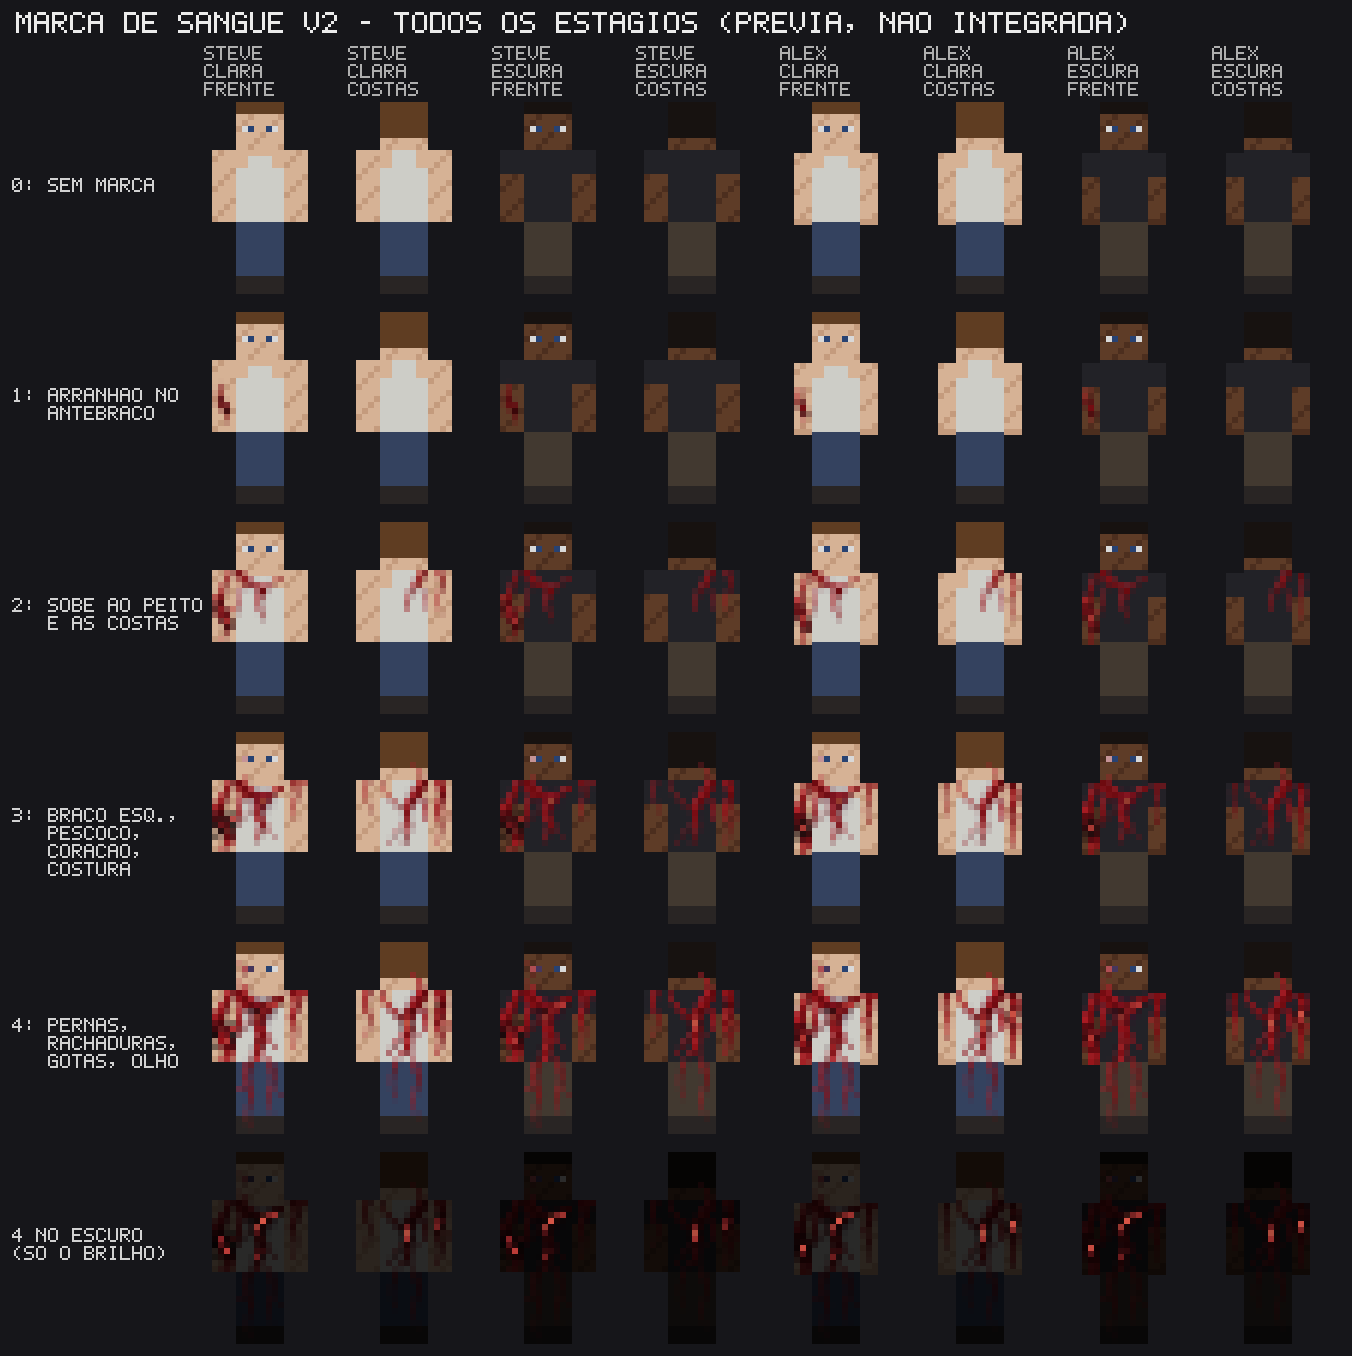
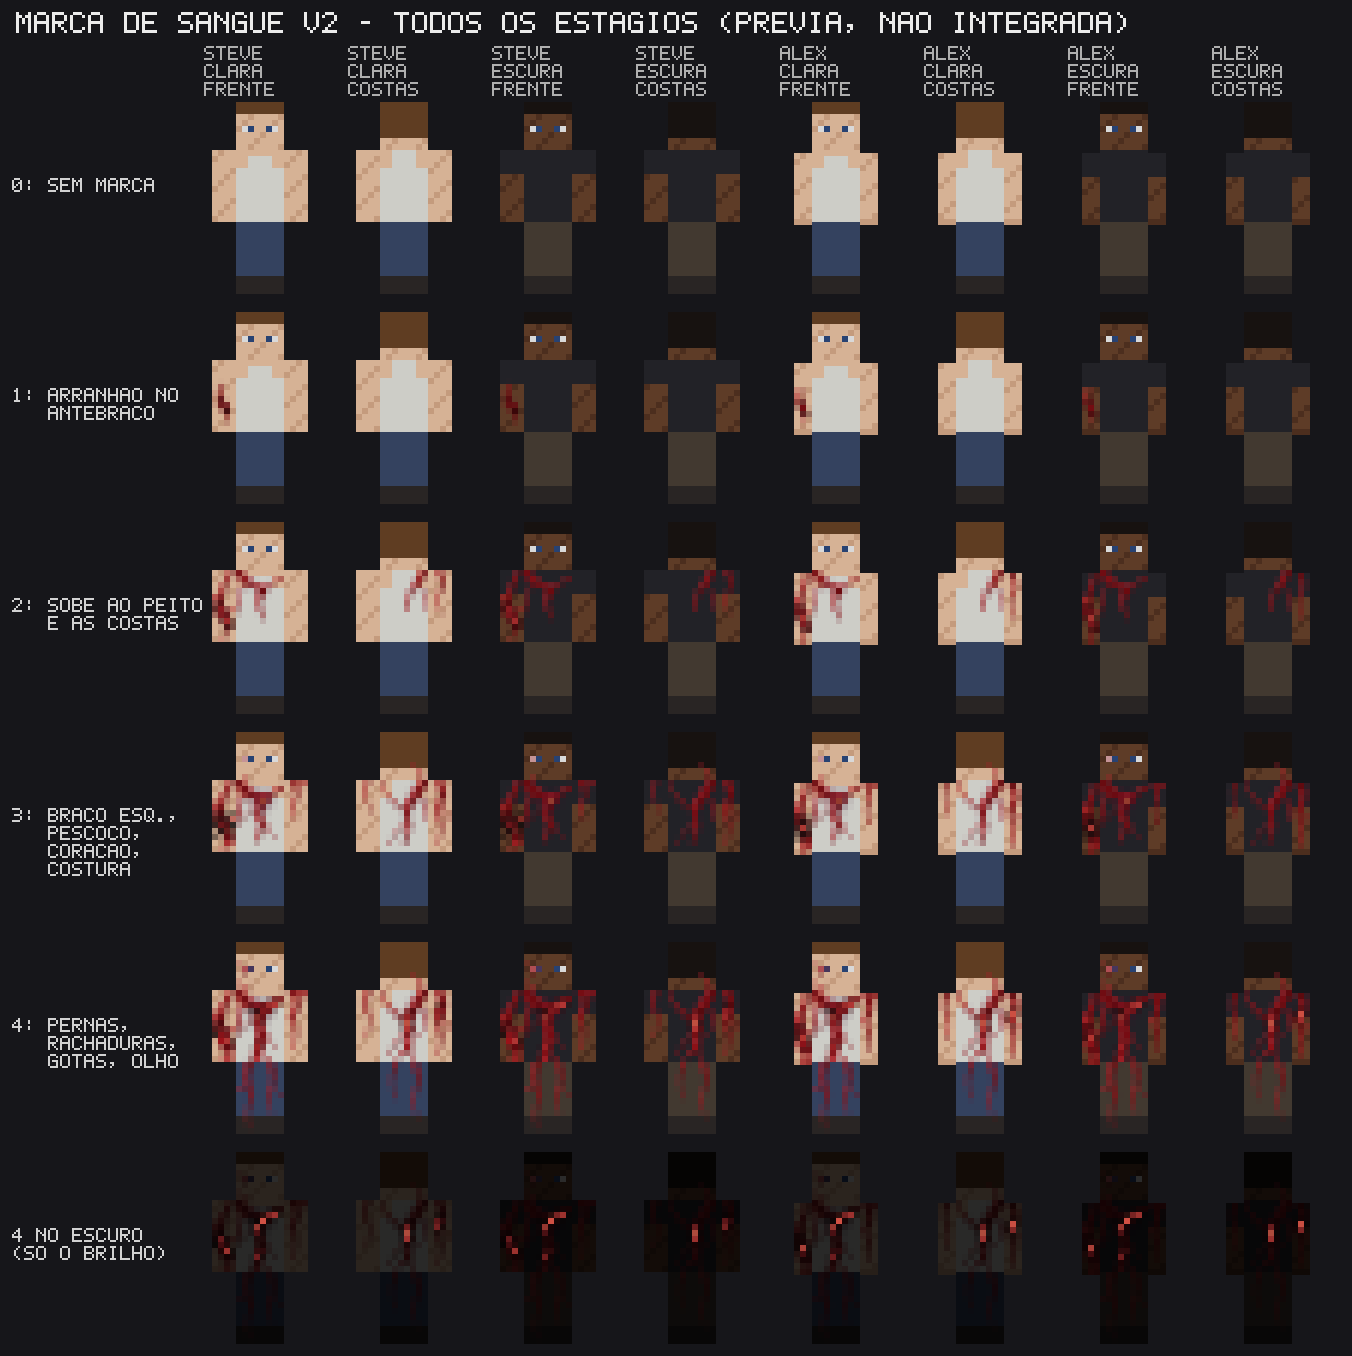
Marca de Sangue v2: mesma arte também em 128x128 (hd/) e comparação lado a lado
Cada estágio agora é desenhado do zero (antes acumulava o anterior). Nikolas decide a resolução.

diff --git a/arte/marca-sangue/v2/veias.py b/arte/marca-sangue/v2/veias.py
@@ -75,19 +75,22 @@ def amostrar(pts, passo=0.08):
 
 # ---------------------------------------------------------------- tela (uma faixa do molde)
 class Tela:
-    def __init__(self, W, H, volta):
-        self.W, self.H, self.volta = W, H, volta
-        self.rgb = np.zeros((H, W, 3))
-        self.a = np.zeros((H, W))
-        self.grgb = np.zeros((H, W, 3))
-        self.ga = np.zeros((H, W))
-        yy, xx = np.mgrid[0:H, 0:W]
-        self.cx, self.cy = xx + 0.5, yy + 0.5
+    """Uma faixa do molde. W e H sao em texels da skin (64x64); F subdivide cada texel (F=2 -> textura 128x128).
+    Todas as medidas (raios, distancias) continuam em texels da skin, entao o desenho e o mesmo nas duas resolucoes."""
+
+    def __init__(self, W, H, volta, F=1):
+        self.W, self.H, self.volta, self.F = W, H, volta, F
+        self.rgb = np.zeros((H * F, W * F, 3))
+        self.a = np.zeros((H * F, W * F))
+        self.grgb = np.zeros((H * F, W * F, 3))
+        self.ga = np.zeros((H * F, W * F))
+        yy, xx = np.mgrid[0:H * F, 0:W * F]
+        self.cx, self.cy = (xx + 0.5) / F, (yy + 0.5) / F
 
     def over(self, cor, alfa, brilho=False):
         cor = np.asarray(cor, float) / 255  # cores sempre em 0..255 (paleta ou mix da paleta)
         if cor.ndim == 1:
-            cor = np.broadcast_to(cor, (self.H, self.W, 3))
+            cor = np.broadcast_to(cor, self.rgb.shape)
         alfa = np.clip(np.asarray(alfa, float), 0, 1)
         drgb, da = (self.grgb, self.ga) if brilho else (self.rgb, self.a)
         oa = alfa + da * (1 - alfa)
@@ -125,10 +128,12 @@ class Tela:
         return sdf, r[i], np.stack([nx, ny], -1), s[i]
 
     def para_uv(self, tex, brilho, u0, v0):
-        tex[v0:v0 + self.H, u0:u0 + self.W, :3] = np.round(self.rgb * 255)
-        tex[v0:v0 + self.H, u0:u0 + self.W, 3] = np.round(self.a * 255)
-        brilho[v0:v0 + self.H, u0:u0 + self.W, :3] = np.round(self.grgb * 255)
-        brilho[v0:v0 + self.H, u0:u0 + self.W, 3] = np.round(self.ga * 255)
+        F = self.F
+        ys, xs = slice(v0 * F, (v0 + self.H) * F), slice(u0 * F, (u0 + self.W) * F)
+        tex[ys, xs, :3] = np.round(self.rgb * 255)
+        tex[ys, xs, 3] = np.round(self.a * 255)
+        brilho[ys, xs, :3] = np.round(self.grgb * 255)
+        brilho[ys, xs, 3] = np.round(self.ga * 255)
 
 
 # ---------------------------------------------------------------- pinceis
@@ -361,17 +366,18 @@ OLHO_DIR = ((9, 12), (10, 12))  # branco e pupila do olho direito no molde (skin
 
 # ---------------------------------------------------------------- montagem
 class Molde:
-    def __init__(self, alex):
+    def __init__(self, alex, F=1):
         self.alex = alex
+        self.F = F
         self.telas = {}
         self.origem = {}
         for parte in ("cabeca", "tronco", "braco_dir", "braco_esq", "perna_dir", "perna_esq"):
             u0, v0, W, H, _ = faixa(parte, alex)
-            self.telas[parte] = Tela(W, H, True)
+            self.telas[parte] = Tela(W, H, True, F)
             self.origem[parte] = (u0, v0)
         for parte in ("tronco", "braco_dir", "braco_esq"):
             u0, v0, W, H = topo(parte, alex)
-            self.telas[parte + "_topo"] = Tela(W, H, False)
+            self.telas[parte + "_topo"] = Tela(W, H, False, F)
             self.origem[parte + "_topo"] = (u0, v0)
 
     def xy(self, parte, p):
@@ -386,9 +392,14 @@ class Molde:
         return [self.xy(parte, p) for p in lista]
 
     def gerar(self, estagio):
-        tex = np.zeros((64, 64, 4), np.uint8)
-        bri = np.zeros((64, 64, 4), np.uint8)
+        tex = np.zeros((64 * self.F, 64 * self.F, 4), np.uint8)
+        bri = np.zeros((64 * self.F, 64 * self.F, 4), np.uint8)
         s = estagio
+        for t in self.telas.values():
+            t.rgb[...] = 0
+            t.a[...] = 0
+            t.grgb[...] = 0
+            t.ga[...] = 0
         ativas = [v for v in VEIAS if v["desde"] <= s]
 
         def raio(v):
@@ -454,15 +465,15 @@ class Molde:
             a = {3: (0.35, 0.0), 4: (0.6, 0.25)}[s]
             for (u, v), alfa in zip(OLHO_DIR, a):
                 if alfa > 0:
-                    _tingir(tex, u, v, VIVO, alfa)
+                    _tingir(tex, u, v, VIVO, alfa, self.F)
         tex[tex[..., 3] < 4] = 0
         bri[bri[..., 3] < 4] = 0
         return tex, bri
 
 
-def _tingir(tex, u, v, cor, alfa):
-    atual = tex[v, u].astype(float) / 255
-    oa = alfa + atual[3] * (1 - alfa)
-    rgb = (np.asarray(cor) / 255 * alfa + atual[:3] * atual[3] * (1 - alfa)) / max(oa, 1e-6)
-    tex[v, u, :3] = np.round(rgb * 255)
-    tex[v, u, 3] = round(oa * 255)
+def _tingir(tex, u, v, cor, alfa, F=1):
+    bloco = tex[v * F:(v + 1) * F, u * F:(u + 1) * F].astype(float) / 255
+    oa = alfa + bloco[..., 3] * (1 - alfa)
+    rgb = (np.asarray(cor) / 255 * alfa + bloco[..., :3] * (bloco[..., 3] * (1 - alfa))[..., None]) / np.maximum(oa, 1e-6)[..., None]
+    tex[v * F:(v + 1) * F, u * F:(u + 1) * F, :3] = np.round(rgb * 255)
+    tex[v * F:(v + 1) * F, u * F:(u + 1) * F, 3] = np.round(oa * 255)

diff --git a/arte/marca-sangue/v2/gerar_marca_v2.py b/arte/marca-sangue/v2/gerar_marca_v2.py
@@ -152,6 +152,41 @@ def folha_ferida(skins, v2):
     salvar_png(os.path.join(DIR_PREVIA, "ferida_de_perto.png"), folha)
 
 
+def folha_comparacao_hd(skins, v2, hd):
+    """Mesma arte em 64x64 (igual a skin) e em 128x128 (dobro de detalhe), lado a lado, para o Nikolas escolher."""
+    esc = 8
+    jan16 = (-9, -1, 5, 13)
+    jan_fer = (-9, 4, -3, 13)
+    linhas = [(2, "clara", False), (3, "clara", False), (4, "clara", False), (4, "escura", False), (4, "clara", True)]
+    cols = [("64x64\ncorpo", v2, None, esc), ("128x128\ncorpo", hd, None, esc),
+            ("64x64\nde perto 16x", v2, jan16, 16), ("128x128\nde perto 16x", hd, jan16, 16),
+            ("64x64\nferida 40x", v2, jan_fer, 40), ("128x128\nferida 40x", hd, jan_fer, 40)]
+    larg = [20 * esc, 20 * esc, 14 * 16, 14 * 16, 6 * 40, 6 * 40]
+    M = 150
+    gap = 14
+    xs = [M]
+    for w in larg[:-1]:
+        xs.append(xs[-1] + w + gap)
+    W = xs[-1] + larg[-1] + 20
+    ch = 34 * esc + gap
+    y0 = 100
+    H = y0 + ch * len(linhas)
+    folha = nova(W, H, FUNDO)
+    texto(folha, 16, 12, "Marca de Sangue v2 - mesma arte em 64x64 e em 128x128 (decisao de resolucao pendente)", BRANCO, 3)
+    for x, (nome, _, _, _) in zip(xs, cols):
+        texto(folha, x, 50, nome, CINZA, 2)
+    for i, (s, tom, alex) in enumerate(linhas):
+        y = y0 + i * ch
+        texto(folha, 14, y + ch // 2 - 24, f"estagio {s}\n" + nome_combo(tom, alex), (210, 210, 210), 2)
+        for x, (nome, fonte, jan, e) in zip(xs, cols):
+            if jan is None:
+                img = render(alex, skins[(tom, alex)], fonte[(s, alex)], 0, esc=e)
+            else:
+                img = render(alex, skins[(tom, alex)], fonte[(s, alex)], 0, esc=e, janela=jan)
+            colar(folha, img, x, y)
+    salvar_png(os.path.join(DIR_PREVIA, "comparacao_64_vs_128.png"), folha)
+
+
 def folha_geral(skins, v2, bri):
     esc = 6
     cw, ch = 20 * esc, 34 * esc
@@ -208,10 +243,12 @@ def main():
     os.makedirs(DIR_PREVIA, exist_ok=True)
     so_texturas = "--so-texturas" in sys.argv
     skins = skins_teste()
-    v2, bri, v1 = {}, {}, {}
+    v2, bri, v1, hd, hd_bri = {}, {}, {}, {}, {}
+    os.makedirs(os.path.join(DIR_V2, "hd"), exist_ok=True)
     for alex in (False, True):
         suf = "_alex" if alex else ""
         m = Molde(alex)
+        m_hd = Molde(alex, F=2)
         v2[(0, alex)] = VAZIO
         for s in range(1, 5):
             tex, b = m.gerar(s)
@@ -219,12 +256,18 @@ def main():
             bri[(s, alex)] = b
             salvar_png(os.path.join(DIR_V2, f"estagio_{s}{suf}.png"), tex)
             salvar_png(os.path.join(DIR_V2, f"estagio_{s}_brilho{suf}.png"), b)
+            tex, b = m_hd.gerar(s)
+            hd[(s, alex)] = tex
+            hd_bri[(s, alex)] = b
+            salvar_png(os.path.join(DIR_V2, "hd", f"estagio_{s}{suf}.png"), tex)
+            salvar_png(os.path.join(DIR_V2, "hd", f"estagio_{s}_brilho{suf}.png"), b)
             v1[(s, alex)] = carregar_v1(s, alex)
         guia = grade_faces(xadrez(v2[(4, alex)], 8), 8, alex)
         salvar_png(os.path.join(DIR_PREVIA, f"molde_guia_estagio_4_{'alex' if alex else 'steve'}.png"), guia)
     print("texturas ok:", DIR_V2)
     if so_texturas:
         return
+    folha_comparacao_hd(skins, v2, hd)
     for s in range(1, 5):
         folha_antes_depois(s, skins, v1, v2, bri)
         print("previa estagio", s)

diff --git a/arte/marca-sangue/v2/corpo.py b/arte/marca-sangue/v2/corpo.py
@@ -188,8 +188,14 @@ def render(alex, skin, marca=None, yaw=0.0, pitch=0.0, esc=8, janela=(-10, -9, 1
             s = (q @ AB) / (AB @ AB)
             t = (q @ AC) / (AC @ AC)
             umin, vmin, umax, vmax = f["uv"]
-            u = np.clip(np.floor(umin + s * (umax - umin)).astype(int), min(umin, umax), max(umin, umax) - 1)
-            v = np.clip(np.floor(vmin + t * (vmax - vmin)).astype(int), min(vmin, vmax), max(vmin, vmax) - 1)
+            uf, vf = umin + s * (umax - umin), vmin + t * (vmax - vmin)
+            u = np.clip(np.floor(uf).astype(int), min(umin, umax), max(umin, umax) - 1)
+            v = np.clip(np.floor(vf).astype(int), min(vmin, vmax), max(vmin, vmax) - 1)
+            # a marca pode ter mais resolucao que a skin (128x128 = fator 2), mesmo molde
+            fonte_f = marca if marca is not None else brilho
+            F = (fonte_f.shape[0] // 64) if fonte_f is not None else 1
+            uF = np.clip(np.floor(uf * F).astype(int), min(umin, umax) * F, max(umin, umax) * F - 1)
+            vF = np.clip(np.floor(vf * F).astype(int), min(vmin, vmax) * F, max(vmin, vmax) * F - 1)
             cor = skin_f[v, u]
             n_cam = R @ f["normal"]
             lam = max(0.0, -float(n_cam @ luz))
@@ -198,12 +204,12 @@ def render(alex, skin, marca=None, yaw=0.0, pitch=0.0, esc=8, janela=(-10, -9, 1
                 sombra *= 0.2
             c = cor[:, :3].copy()
             if marca_f is not None:
-                mc = marca_f[v, u]
+                mc = marca_f[vF, uF]
                 a = mc[:, 3:4]
                 c = c * (1 - a) + mc[:, :3] * a
             c = c * sombra
             if brilho_f is not None:
-                g = brilho_f[v, u]
+                g = brilho_f[vF, uF]
                 ga = g[:, 3:4] * pulso
                 c = c * (1 - ga) + g[:, :3] * ga
             idx = np.nonzero(m)[0]

diff --git a/arte/marca-sangue/v2/LEIA.md b/arte/marca-sangue/v2/LEIA.md
@@ -21,6 +21,7 @@ Só precisa de `python3` e `numpy`. PNG e GIF são escritos pelo próprio script
 |---|---|
 | `estagio_N.png` / `estagio_N_alex.png` | a Marca do estágio N (1 a 4), molde 64x64 da skin, camada de baixo. Steve (braço 4 px) e Alex (braço 3 px) |
 | `estagio_N_brilho*.png` | **só o que brilha no escuro**: interior das rachaduras, carne viva da ferida e o coração. Para a camada emissiva (pulso = animação da Dev) |
+| `hd/` | a **mesma arte em 128x128** (mesmo molde, dobro de detalhe). Comparação em `arte/previas/marca-sangue-v2/comparacao_64_vs_128.png`. Só uma das duas vai para o jogo, conforme o Nikolas decidir |
 | `gerar_marca_v2.py` | principal: gera texturas, prévias e GIF |
 | `veias.py` | o desenho: lista de veias/rachaduras/gotas por estágio e os pincéis (campo de distância) |
 | `corpo.py` | corpo do jogador com o UV do Minecraft, skins de teste e render por raio |
@@ -48,9 +49,9 @@ guia do molde com as faces e `brilho_pulsando.gif`).
 
 ## Limites e pendências
 
-- **Resolução 64x64** (igual à skin): costura é fio de 1 px e no antebraço de 3-4 px tudo fica apertado. Se o
-  Nikolas quiser mais detalhe, dá para gerar a mesma arte em 128x128 (o modelo aceita), mas é decisão de
-  resolução pendente em `docs/decisoes.md`.
+- **Resolução**: em 64x64 (igual à skin) a costura é fio de 1 px e no antebraço de 3-4 px tudo fica apertado;
+  em 128x128 (`hd/`) costura, coração e rachaduras leem melhor, mas a Marca fica mais fina que a skin em volta
+  (mistura de resolução). É a decisão pendente em `docs/decisoes.md`: o Nikolas escolhe vendo a comparação.
 - Olho injetado assume olho no lugar do Steve/Alex padrão (pixels 9-10, 12 do molde). Em skins diferentes, o
   tom vermelho cai em outro ponto do rosto: é opcional e pode ser desligado.
 - Só a camada de baixo da skin. A camada de cima (jaqueta, chapéu) fica livre.
